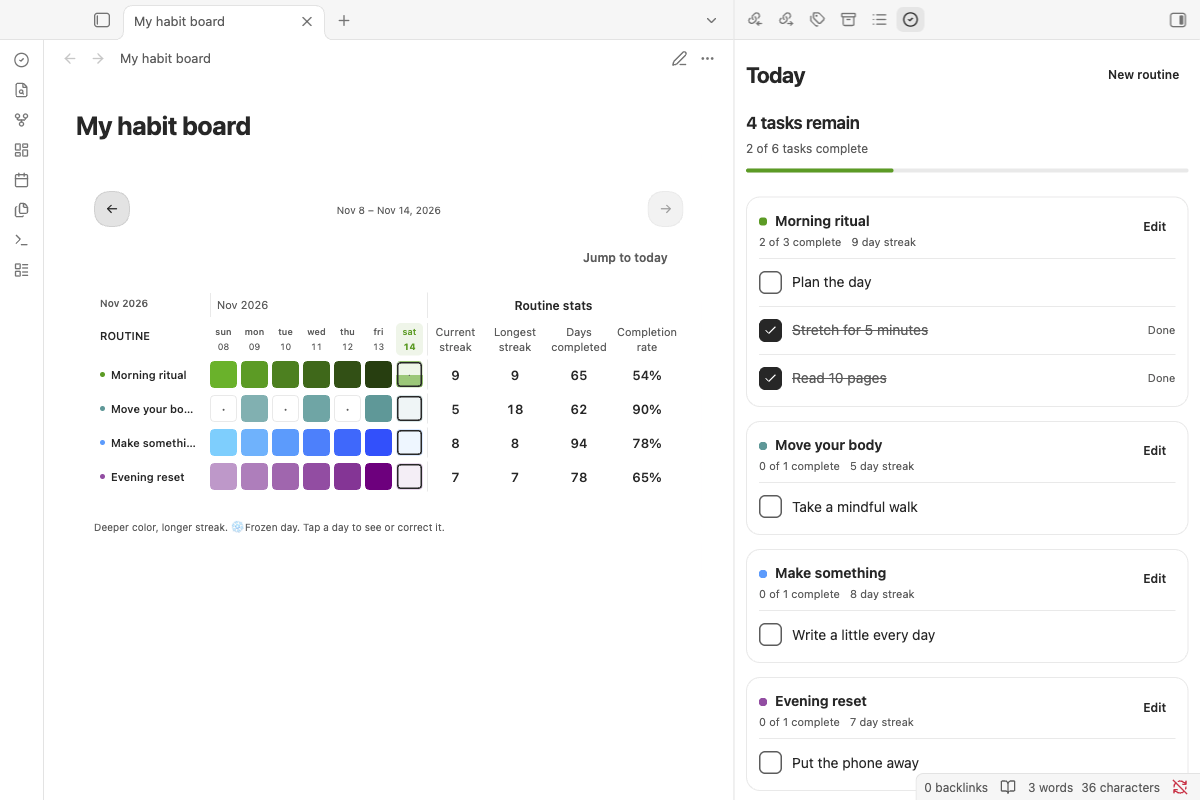
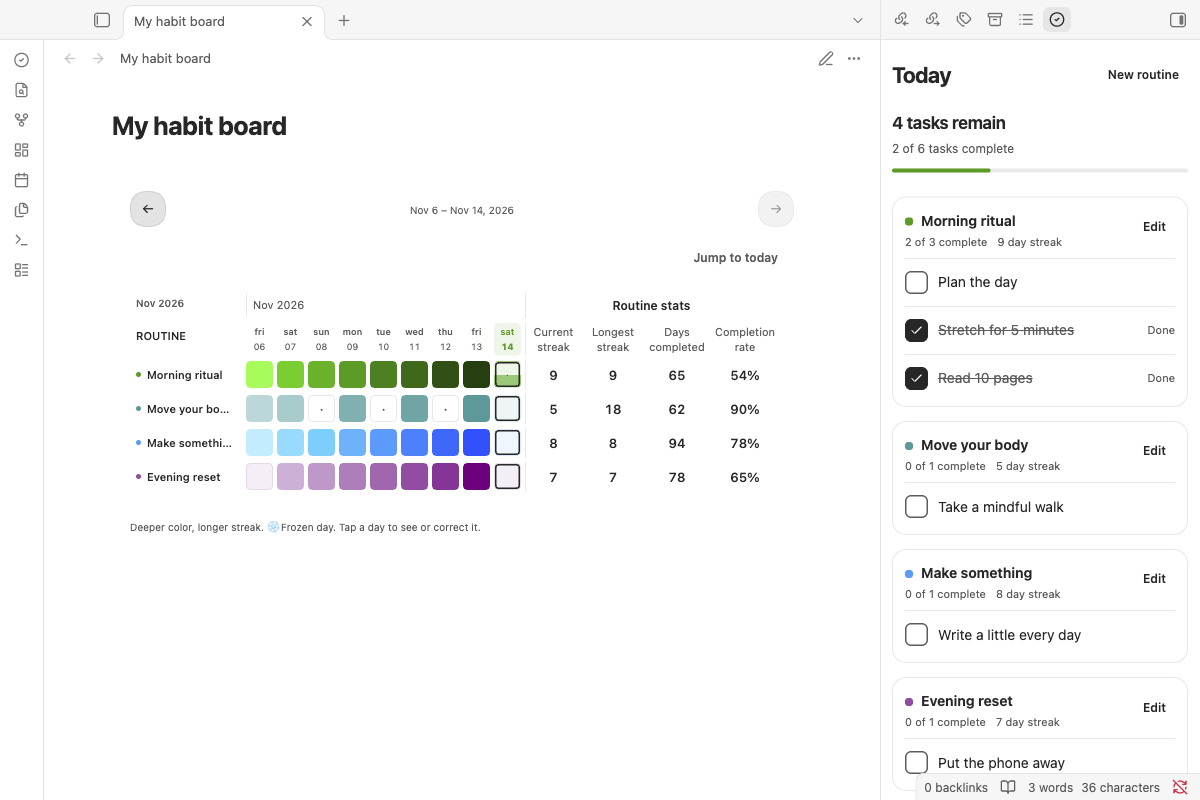
Refresh screenshots and add Community gallery exports

diff --git a/docs/images/gallery/README.md b/docs/images/gallery/README.md
@@ -1,0 +1,42 @@
+# Community gallery screenshots
+
+These screenshots show **Daymark Habits 0.2.1** running in Obsidian with fictional demo records. The files in the two folders below are ready for the Community directory gallery.
+
+| Set | Dimensions | Ratio | Format | Limit |
+| --- | --- | --- | --- | --- |
+| [Desktop](desktop/) | 1200 × 800 px | 3:2 | PNG | Each file under 5 MB |
+| [Mobile previews](mobile/) | 900 × 1600 px | 9:16 | PNG | Each file under 5 MB |
+
+There are five images in each set, ordered for upload by filename.
+
+## Desktop
+
+1. [Habit Board and Today](desktop/01-habit-board-and-today.png) — the colorful streak grid beside the Today checklist.
+2. [Weekday and weekly patterns](desktop/02-weekday-and-weekly-patterns.png) — two independent views in a review note.
+3. [Calendar Overview](desktop/03-calendar-overview.png) — daily completion and month boundaries.
+4. [Create a routine](desktop/04-create-a-routine.png) — a task scheduled for Monday, Wednesday, and Friday.
+5. [Check-ins and freezes](desktop/05-check-ins-and-freezes.png) — correction controls and the shared freeze allowance.
+
+## Mobile previews
+
+1. [Today](mobile/01-today.png) — remaining and completed tasks grouped by routine.
+2. [Habit Board and stats](mobile/02-habit-board-and-stats.png) — a selected routine’s lifetime stats below the date cells.
+3. [Weekday Patterns](mobile/03-weekday-patterns.png) — weekday completion across routines.
+4. [Calendar Overview](mobile/04-calendar-overview.png) — the green daily overview in a narrow pane.
+5. [Create a routine](mobile/05-create-a-routine.png) — a daily task and accessible save controls.
+
+The mobile set is **desktop-emulated responsive UI**, not physical iPhone screenshots. The 360 × 640 CSS-pixel content is rendered at 2.5× density to create exact 900 × 1600 images without stretching. Desktop workspace chrome is excluded from portrait crops; the editor preview omits background chrome. The plugin’s controls and displayed values are unchanged.
+
+Other images elsewhere in `docs/images` include component crops and verification captures. Use these gallery folders for the recommended upload dimensions.
+
+## Refresh and validate
+
+With the isolated `/private/tmp/daymark-runtime-vault` instance running on debugging port 9231:
+
+```sh
+npm run screenshots:capture
+npm run screenshots:check
+npm run screenshots:package
+```
+
+The capture script uses temporary notes and demo data and restores saved records afterwards. A reusable empty `Daymark gallery` folder may remain in the isolated vault. The size validator checks PNG headers, exact dimensions, five images per set, and a strict 5,000,000-byte limit. The package command creates a ZIP containing both sets and this guide in `dist/`.

diff --git a/docs/RELEASING.md b/docs/RELEASING.md
@@ -35,7 +35,7 @@ Suggested listing text:
 
 > Track habits and routines with daily checklists, streak boards, and completion heatmaps inside your notes.
 
-Start with `docs/images/overview.png` as a desktop screenshot (1200 × 800). The README contains copyable blocks for all four views and explains the empty-block default. Other images in `docs/images/` show actual UI with fictional demo records.
+Use the five images in `docs/images/gallery/desktop/` (1200 × 800, 3:2) and the five in `docs/images/gallery/mobile/` (900 × 1600, 9:16). Every PNG is under 5 MB. The [gallery guide](images/gallery/README.md) lists the upload order and documents the emulated mobile previews. The README contains copyable blocks for all four views and explains the empty-block default. Other images in `docs/images/` show actual UI with fictional demo records.
 
 The optional Scriptable companion is separate from the plugin’s core functionality. Keep the physical iOS/Android and widget-access testing limitations clear until device tests have been completed.
 

diff --git a/CONTRIBUTING.md b/CONTRIBUTING.md
@@ -21,4 +21,6 @@ Use Obsidian’s public APIs and theme variables. Keep domain calculations indep
 
 The `minimatch` override pins affected lint-tool dependencies to the patched 11.x API. `npm audit` and the official lint rules are checked when updating development dependencies.
 
+Gallery captures use `npm run screenshots:capture` in the isolated runtime; `npm run screenshots:check` verifies dimensions and file limits, and `npm run screenshots:package` makes an upload ZIP. See the [gallery guide](docs/images/gallery/README.md).
+
 For a release, follow [RELEASING.md](docs/RELEASING.md). Contributions are provided under the repository’s [0BSD license](LICENSE).

diff --git a/README.md b/README.md
@@ -2,7 +2,9 @@
 
 Track habits and multi-task routines inside Obsidian. Check off today’s tasks in a sidebar, follow your streaks on a colorful board, and place completion heatmaps anywhere in your notes.
 
-![Habit Board in a note beside the Today checklist](docs/images/overview.png)
+![Habit Board in a note beside the Today checklist](docs/images/gallery/desktop/01-habit-board-and-today.png)
+
+[View the desktop and mobile screenshot gallery](docs/images/gallery/README.md).
 
 Created by **[niyoj](https://github.com/niyoj)**. Free, local, and open source. No account, subscription, telemetry, or network connection is required by the plugin.
 
